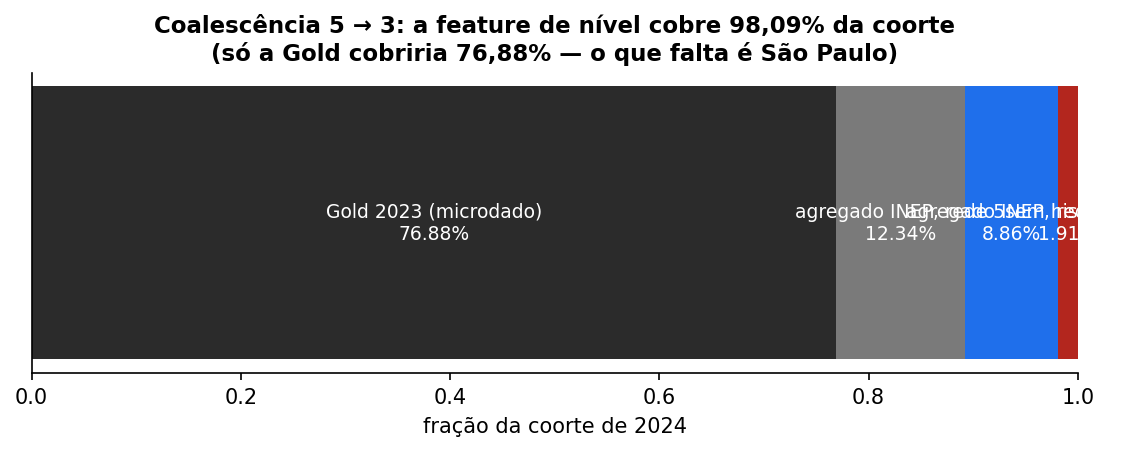
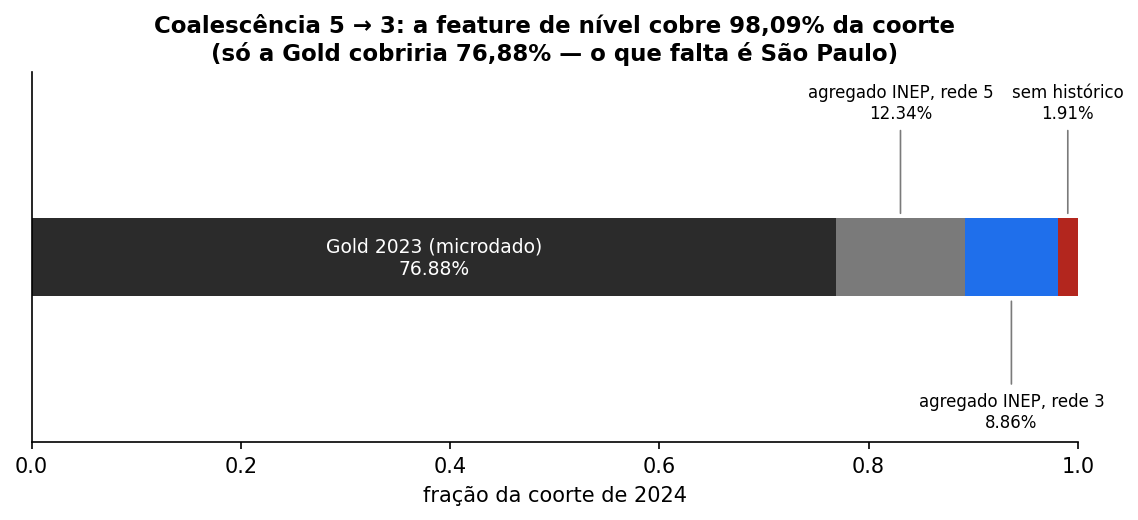
Inclusão da parâmetro para carga de arquivos e ajustes gerais

diff --git a/scripts/prepare_data.py b/scripts/prepare_data.py
@@ -1,10 +1,12 @@
 """Converte os CSVs brutos em Parquet, um arquivo por ano.
 
 Motivação: a Gold tem 615 MB e o microdado 214 MB em CSV. Lidos com dtypes
-largos, os dois juntos não cabem na memória disponível.
+largos, os dois juntos não cabem confortavelmente na memória disponível.
+A conversão é feita em streaming (lotes do pyarrow), com tipos estreitos e
+compressão zstd, e o resultado é lido depois em segundos.
 
 Uso:
-    python scripts/prepare_data.py [--force]
+    python scripts/prepare_data.py [--force] [--load_data]
 """
 
 import argparse
@@ -12,13 +14,14 @@ import logging
 import sys
 from pathlib import Path
 
+import gdown
 import pyarrow as pa
 import pyarrow.compute as pc
 import pyarrow.csv as pacsv
 import pyarrow.parquet as pq
 
 sys.path.insert(0, str(Path(__file__).resolve().parents[1]))
-from src import config  
+from src import config  # noqa: E402
 
 logging.basicConfig(
     level=logging.INFO,
@@ -30,7 +33,7 @@ log = logging.getLogger(__name__)
 TAMANHO_LOTE = 500_000
 
 # ---------------------------------------------------------------------------
-# Esquemas 
+# Esquemas — tipos estreitos, escolhidos a partir dos valores reais das bases
 # ---------------------------------------------------------------------------
 TIPOS_GOLD = {
     "ano": pa.int16(),
@@ -71,7 +74,23 @@ TIPOS_ALUNO = {
     "peso_aluno": pa.float32(),
 }
 
+# ---------------------------------------------------------------------------
+# Download opcional dos CSVs brutos (não versionados) via --load_data
+# ---------------------------------------------------------------------------
+ARQUIVOS_DRIVE = {
+    config.CSV_GOLD: "12IvWA_e4bsV2wgwKdg3-1_-W82wBtA8i",
+    config.CSV_ALUNO: "15mL_WihTkVceMJcGvAAxvpOg7DLrWg1o",
+}
 
+
+def baixar_dados(arquivos: dict = ARQUIVOS_DRIVE) -> None:
+    """Baixa do Drive os CSVs brutos que o repositório não versiona."""
+    for destino, file_id in arquivos.items():
+        destino.parent.mkdir(parents=True, exist_ok=True)
+        log.info("baixando %s do Drive", destino.name)
+        gdown.download(id=file_id, output=str(destino), quiet=False)
+        
+        
 def converter(origem: Path, destino_template: str, tipos: dict, descartar: tuple = ()) -> dict:
     """Lê um CSV em lotes e grava um Parquet por ano. Devolve as contagens."""
     if not origem.exists():
@@ -115,7 +134,15 @@ def converter(origem: Path, destino_template: str, tipos: dict, descartar: tuple
 def main() -> None:
     parser = argparse.ArgumentParser(description=__doc__)
     parser.add_argument("--force", action="store_true", help="reconverte mesmo se o Parquet já existir")
+    parser.add_argument(
+        "--load_data",
+        action="store_true",
+        help="baixa do Drive a Gold e o microdado INEP antes de converter (ver data/README.md)",
+    )
     args = parser.parse_args()
+
+    if args.load_data:
+        baixar_dados()
 
     tarefas = (
         ("Gold (grão aluno, alvo de 2024)", config.CSV_GOLD, str(config.PARQUET_GOLD), TIPOS_GOLD, config.COLS_AUDITORIA),

diff --git a/src/visualization/plots_features.py b/src/visualization/plots_features.py
@@ -46,22 +46,35 @@ def plotar_cobertura_por_fonte(fonte: pd.Series) -> Figure:
     partes = fonte.value_counts(normalize=True).reindex(ordem).fillna(0)
     cores = [CINZA_ESCURO, CINZA_MEDIO, ACENTO, ACENTO_ALERTA]
 
-    fig, ax = plt.subplots(figsize=(9, 2.6))
+    # Só a primeira fatia (Gold) é larga o bastante pro rótulo caber dentro dela.
+    # As demais ficam lado a lado e estreitas — o rótulo vai por fora, com linha
+    # de chamada, alternando acima/abaixo pra não colidir com a vizinha.
+    LARGURA_MINIMA_INTERNA = 0.2
+    fig, ax = plt.subplots(figsize=(9, 3.2))
     esquerda = 0.0
+    lado = 1
     for valor, cor, chave in zip(partes, cores, ordem):
         ax.barh([0], [valor], left=esquerda, color=cor, height=0.55)
+        centro = esquerda + valor / 2
         if valor > 0.015:
-            ax.text(
-                esquerda + valor / 2,
-                0,
-                f"{rotulos[chave]}\n{valor:.2%}",
-                ha="center",
-                va="center",
-                color="white" if chave != "agregado_r3" else "white",
-                fontsize=9,
-            )
+            rotulo = f"{rotulos[chave]}\n{valor:.2%}"
+            if valor >= LARGURA_MINIMA_INTERNA:
+                ax.text(centro, 0, rotulo, ha="center", va="center", color="white", fontsize=9)
+            else:
+                y_texto = lado * 0.95
+                ax.annotate(
+                    rotulo,
+                    xy=(centro, 0.28 * lado),
+                    xytext=(centro, y_texto),
+                    ha="center",
+                    va="bottom" if lado > 0 else "top",
+                    fontsize=8,
+                    arrowprops=dict(arrowstyle="-", color=CINZA_MEDIO, lw=0.8),
+                )
+                lado *= -1
         esquerda += valor
     ax.set_yticks([])
+    ax.set_ylim(-1.3, 1.3)
     ax.set_xlim(0, 1)
     ax.set_xlabel("fração da coorte de 2024")
     ax.grid(False)
@@ -101,6 +114,10 @@ def plotar_auc_univariada(quadro: pd.DataFrame, titulo: str, n_maximo: int = 22)
             ha="right" if auc < 0.5 else "left",
             fontsize=8,
         )
+    # Sem isso o xlim vem só do range das barras, e o texto (ha="right"/"left" na
+    # ponta) estoura pra fora dos eixos e cai em cima do yticklabel vizinho.
+    margem = 0.07
+    ax.set_xlim(dados["auc"].min() - margem, dados["auc"].max() + margem)
     ax.set_yticks(y, dados["feature"])
     ax.set_xlabel("ROC-AUC univariada do risco de não alfabetização")
     ax.set_title(titulo)
@@ -157,6 +174,6 @@ def plotar_replica_b5(replica: pd.DataFrame) -> Figure:
     ax.axvline(0, color=CINZA_ESCURO, linewidth=1)
     ax.set_yticks(range(len(comparacoes)), comparacoes)
     ax.set_ylim(-0.5, len(comparacoes) - 0.3)
-    ax.set_xlabel("Delta ROC-AUC pareado por fold (15 folds: 5 dobras × 3 seeds)")
+    ax.set_xlabel("Δ ROC-AUC pareado por fold (15 folds: 5 dobras × 3 seeds)")
     ax.set_title("Réplica do experimento B5: o ganho é menor que a dispersão entre folds")
     return fig

diff --git a/scripts/executar_notebooks.py b/scripts/executar_notebooks.py
@@ -1,7 +1,7 @@
 """Executa os notebooks selecionados com o mesmo Python do ambiente ativo.
 
 O backend fica no `matplotlib_inline`, e não em `Agg`: com `Agg` o notebook roda
-sem erro e sai sem nenhuma figura embutida, porque as células chamam
+sem erro e sai **sem nenhuma figura embutida**, porque as células chamam
 `salvar_figura` e o `print` do caminho é a última expressão. O PNG em `images/`
 continua igual nos dois casos; o que se perde é o notebook como narrativa legível
 por quem não vai executá-lo.
@@ -27,11 +27,23 @@ def main():
     # setdefault não serve aqui: reproduzir.py exporta MPLBACKEND=Agg para os
     # comandos de linha, e herdá-lo esvaziaria as figuras do notebook.
     os.environ["MPLBACKEND"] = "module://matplotlib_inline.backend_inline"
+    # PowerShell não expande wildcard pra comando externo (bash expande); sem
+    # isso "notebooks\*.ipynb" chega literal e o Path quebra no open().
+    caminhos = []
     for nome in args.notebooks:
-        caminho = Path(nome)
+        if any(c in nome for c in "*?["):
+            encontrados = sorted(ROOT.glob(nome))
+            if not encontrados:
+                raise FileNotFoundError(f"nenhum notebook casou com o padrão: {nome}")
+            caminhos.extend(encontrados)
+        else:
+            caminhos.append(Path(nome))
+
+    for caminho in caminhos:
         if not caminho.is_absolute():
             caminho = ROOT / caminho
         nb = nbformat.read(caminho, as_version=4)
+        print('Passou aqui 7')
         km = KernelManager(kernel_name="python3")
         # Evita depender de um kernelspec --user, que não viaja com o clone.
         km._kernel_spec = KernelSpec(argv=[sys.executable, "-m", "ipykernel_launcher", "-f", "{connection_file}"],

diff --git a/src/visualization/plots_modelagem.py b/src/visualization/plots_modelagem.py
@@ -83,7 +83,12 @@ def plotar_capacidade(capacidade: pd.DataFrame, prevalencia: float) -> Figure:
     ax.plot(x, capacidade["precisao"] * 100, "s-", color=CINZA_ESCURO, linewidth=1.6, label="precisão do alerta")
     ax.plot(x, x, color=CINZA_MEDIO, linestyle=":", linewidth=1.2, label="sorteio aleatório")
     ax.axhline(prevalencia * 100, color=ACENTO_ALERTA, linestyle="--", linewidth=1)
-    ax.text(1, prevalencia * 100 + 1.2, f"prevalência {prevalencia:.1%}", color=ACENTO_ALERTA, fontsize=8)
+    # x em fração dos eixos (não em dado): x=1 supunha eixo começando perto de 0,
+    # mas `fracao_atendida` começa em 5% e o rótulo caía por fora, sobre o eixo Y.
+    ax.text(
+        0.01, prevalencia * 100 + 1.2, f"prevalência {prevalencia:.1%}",
+        color=ACENTO_ALERTA, fontsize=8, transform=ax.get_yaxis_transform(),
+    )
     ax.set_xlabel("% da coorte atendida, do maior risco para o menor")
     ax.set_ylabel("%")
     ax.set_title("Cenários de capacidade orçamentária")

diff --git a/data/README.md b/data/README.md
@@ -36,9 +36,15 @@ descreve o que a coisa é: dimensão de apoio, pequena, versionada, regenerável
 python -m venv .venv && .venv\Scripts\Activate.ps1   # bash: source .venv/Scripts/activate
 pip install -r requirements.txt
 
-python scripts/prepare_data.py          # CSV → Parquet em data/interim/ (~10 s)
-python scripts/build_dim_municipio.py   # dimensão territorial em data/reference/
-pytest -q                               # 24 testes de integridade dos dados
+python scripts/prepare_data.py --load_data   # baixa a Gold e o microdado do Drive (ver abaixo)
+python scripts/prepare_data.py               # CSV → Parquet em data/interim/ (~10 s)
+python scripts/build_dim_municipio.py        # dimensão territorial em data/reference/
+pytest -q                                    # 24 testes de integridade dos dados
+```
+
+`--load_data` é opcional e só precisa rodar uma vez: baixa os dois CSVs do Drive (ver
+"Origem de cada base" abaixo) direto para `raw/alfabetizacao_aluno/` e `raw/inep/`. Sem
+ele, os arquivos precisam ser colocados manualmente nesses caminhos antes da conversão.                             # 24 testes de integridade dos dados
 ```
 
 ## Origem de cada base
@@ -61,10 +67,17 @@ produzida por `build_ml_feature_table()` em `scripts/etl/etl-gold.py` e exportad
 > roda em `mode("overwrite")` sem carga incremental, então duas execuções produzem
 > conteúdos diferentes; sem o timestamp no nome não há como saber qual está em disco.
 
-> **Pendente de decisão do grupo:** um clone limpo deste repositório não consegue
-> reproduzir a Gold sem acesso a um workspace Databricks. As duas saídas possíveis são
-> publicar o CSV em um GitHub Release ou Drive e linkar aqui, ou declarar explicitamente
-> no README que a execução completa depende da Gold fornecida pelo grupo.
+> **Download dos CSVs.** Um clone limpo deste repositório não consegue reproduzir a Gold
+> sem acesso a um workspace Databricks, e o microdado do INEP também não é versionado.
+> Os dois arquivos estão publicados no Drive:
+>
+> - `alfabetizacao_aluno_features_2023-2024_20260829.csv` (Gold):
+>   https://drive.google.com/file/d/12IvWA_e4bsV2wgwKdg3-1_-W82wBtA8i/view?usp=sharing
+> - `br_inep_avaliacao_alfabetizacao_aluno.csv` (microdado INEP):
+>   https://drive.google.com/file/d/15mL_WihTkVceMJcGvAAxvpOg7DLrWg1o/view?usp=sharing
+>
+> Baixe os dois e rode `python scripts/prepare_data.py --load_data` para copiá-los aos
+> respectivos diretórios em `raw/` antes da conversão (ver seção "Como reconstruir").
 
 ## Contagens de referência
 

diff --git a/GUIA_DE_EXECUCAO.md b/GUIA_DE_EXECUCAO.md
@@ -42,10 +42,11 @@ da próxima seção.
 
 **A dependência que este repositório não resolve sozinho.** A camada Gold, de 615 MB, é a saída de
 um pipeline PySpark que roda em Databricks e não está versionada. O código que a produz está em
-[`scripts/etl/`](scripts/etl), mas regenerá-la exige acesso a um workspace. Para executar o projeto
-é preciso obter o CSV com o grupo e colocá-lo em
-`data/raw/alfabetizacao_aluno/alfabetizacao_aluno_features_2023-2024_20260829.csv`. Clonar o
-repositório não traz esse arquivo, e o manifesto confere a versão sem substituir o fornecimento.
+[`scripts/etl/`](scripts/etl), mas regenerá-la exige acesso a um workspace. Clonar o repositório não
+traz esse arquivo, e o manifesto confere a versão sem substituir o fornecimento. Os links do Drive
+para a Gold e para o microdado INEP estão em
+[`data/README.md`](data/README.md#origem-de-cada-base), na seção "Origem de cada base"; rodar
+`python scripts/prepare_data.py --load_data` baixa os dois direto para `data/raw/`.
 
 Os seis CSVs do INEP, que somam 216 MB, são públicos e vêm do
 [Base dos Dados](https://basedosdados.org/), conjunto `br_inep_avaliacao_alfabetizacao`. Eles vão em
